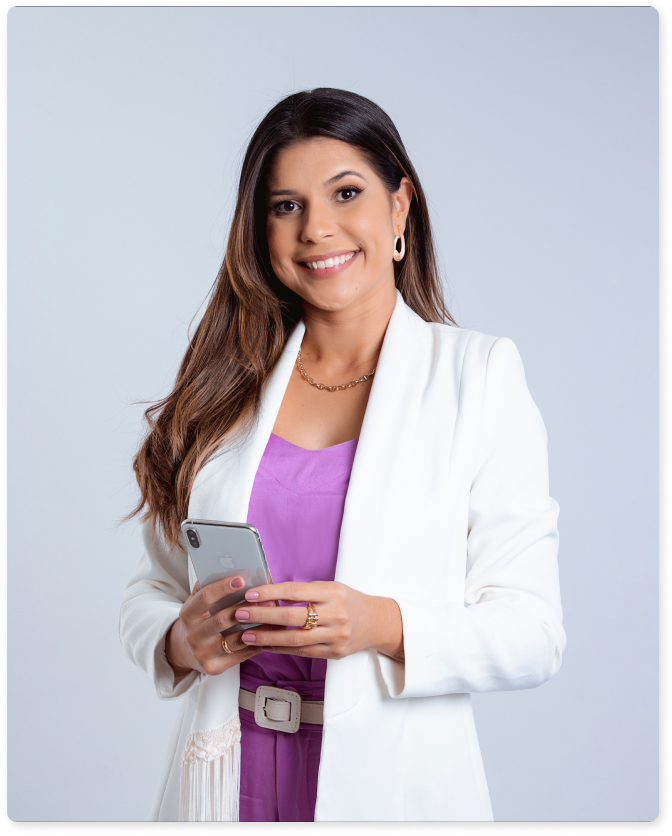
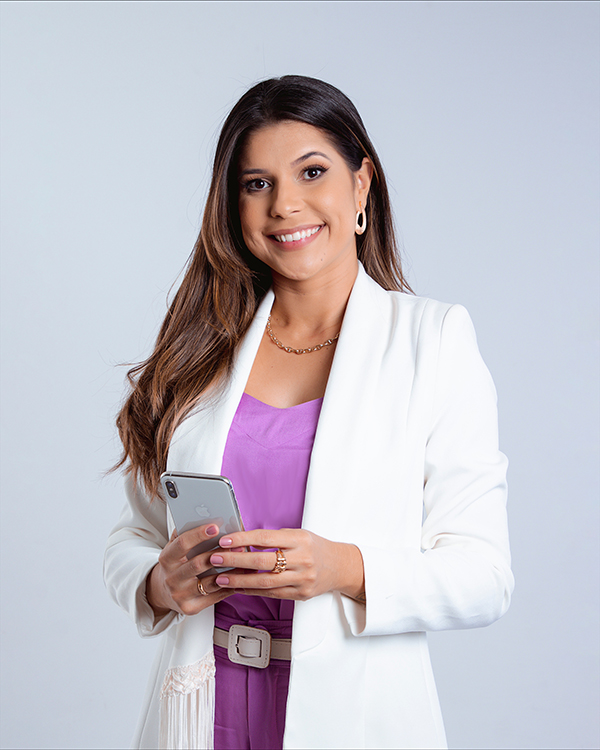
foto1
fotos

diff --git a/index.html b/index.html
@@ -15,7 +15,13 @@
         <img src="imagens/logo.svg" id="foto1" alt="Renara Torquato">
         <a href="" class="botao-link">CONSULTAS ONLINE</a>
 
-        <span class="divisoria"></span>
+        <div class="divisoria"></div>
+
+        <div class="box-infos">
+            <div class="infos-esquerdo"></div>
+            <img src="imagens/foto1.jpg" alt="">
+        </div>
+
     </div>
 </body> 
 </html>

diff --git a/style.css b/style.css
@@ -34,8 +34,16 @@
     margin-top: 30px;
 }
 
-span{
-    width: 300px;
-    height: 20px;
-    background-color: #5C7361;
+.divisoria{
+    width: 80%;
+    height: 1px;
+    margin: 50px; auto;
+    border-radius: 50px;
+    background-color: #5C736150;
+}
+
+.box-infos img{
+    width: 380px;
+    border-radius: 10px;
+
 }
